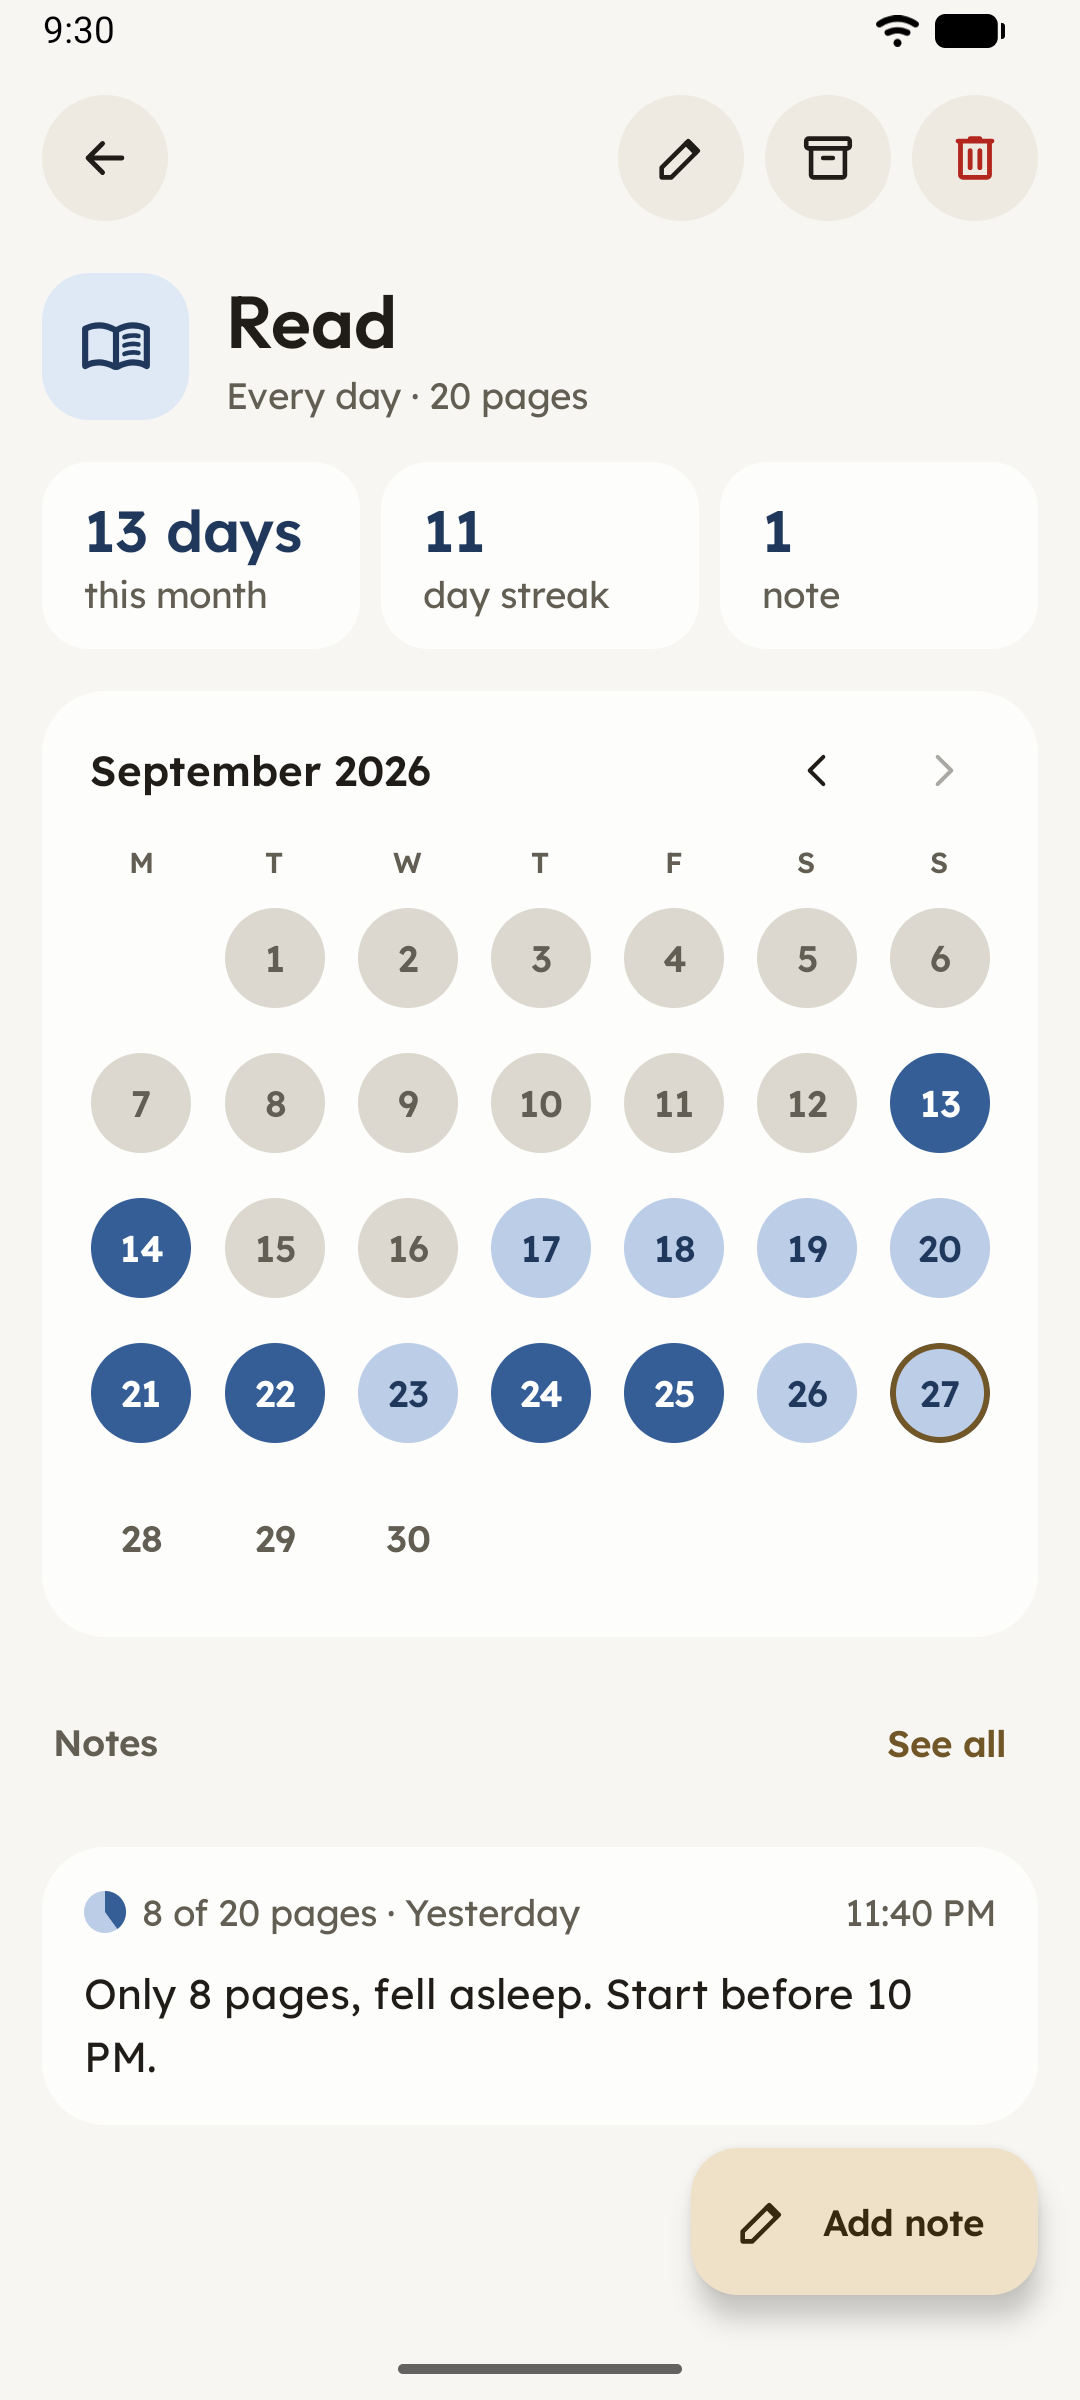
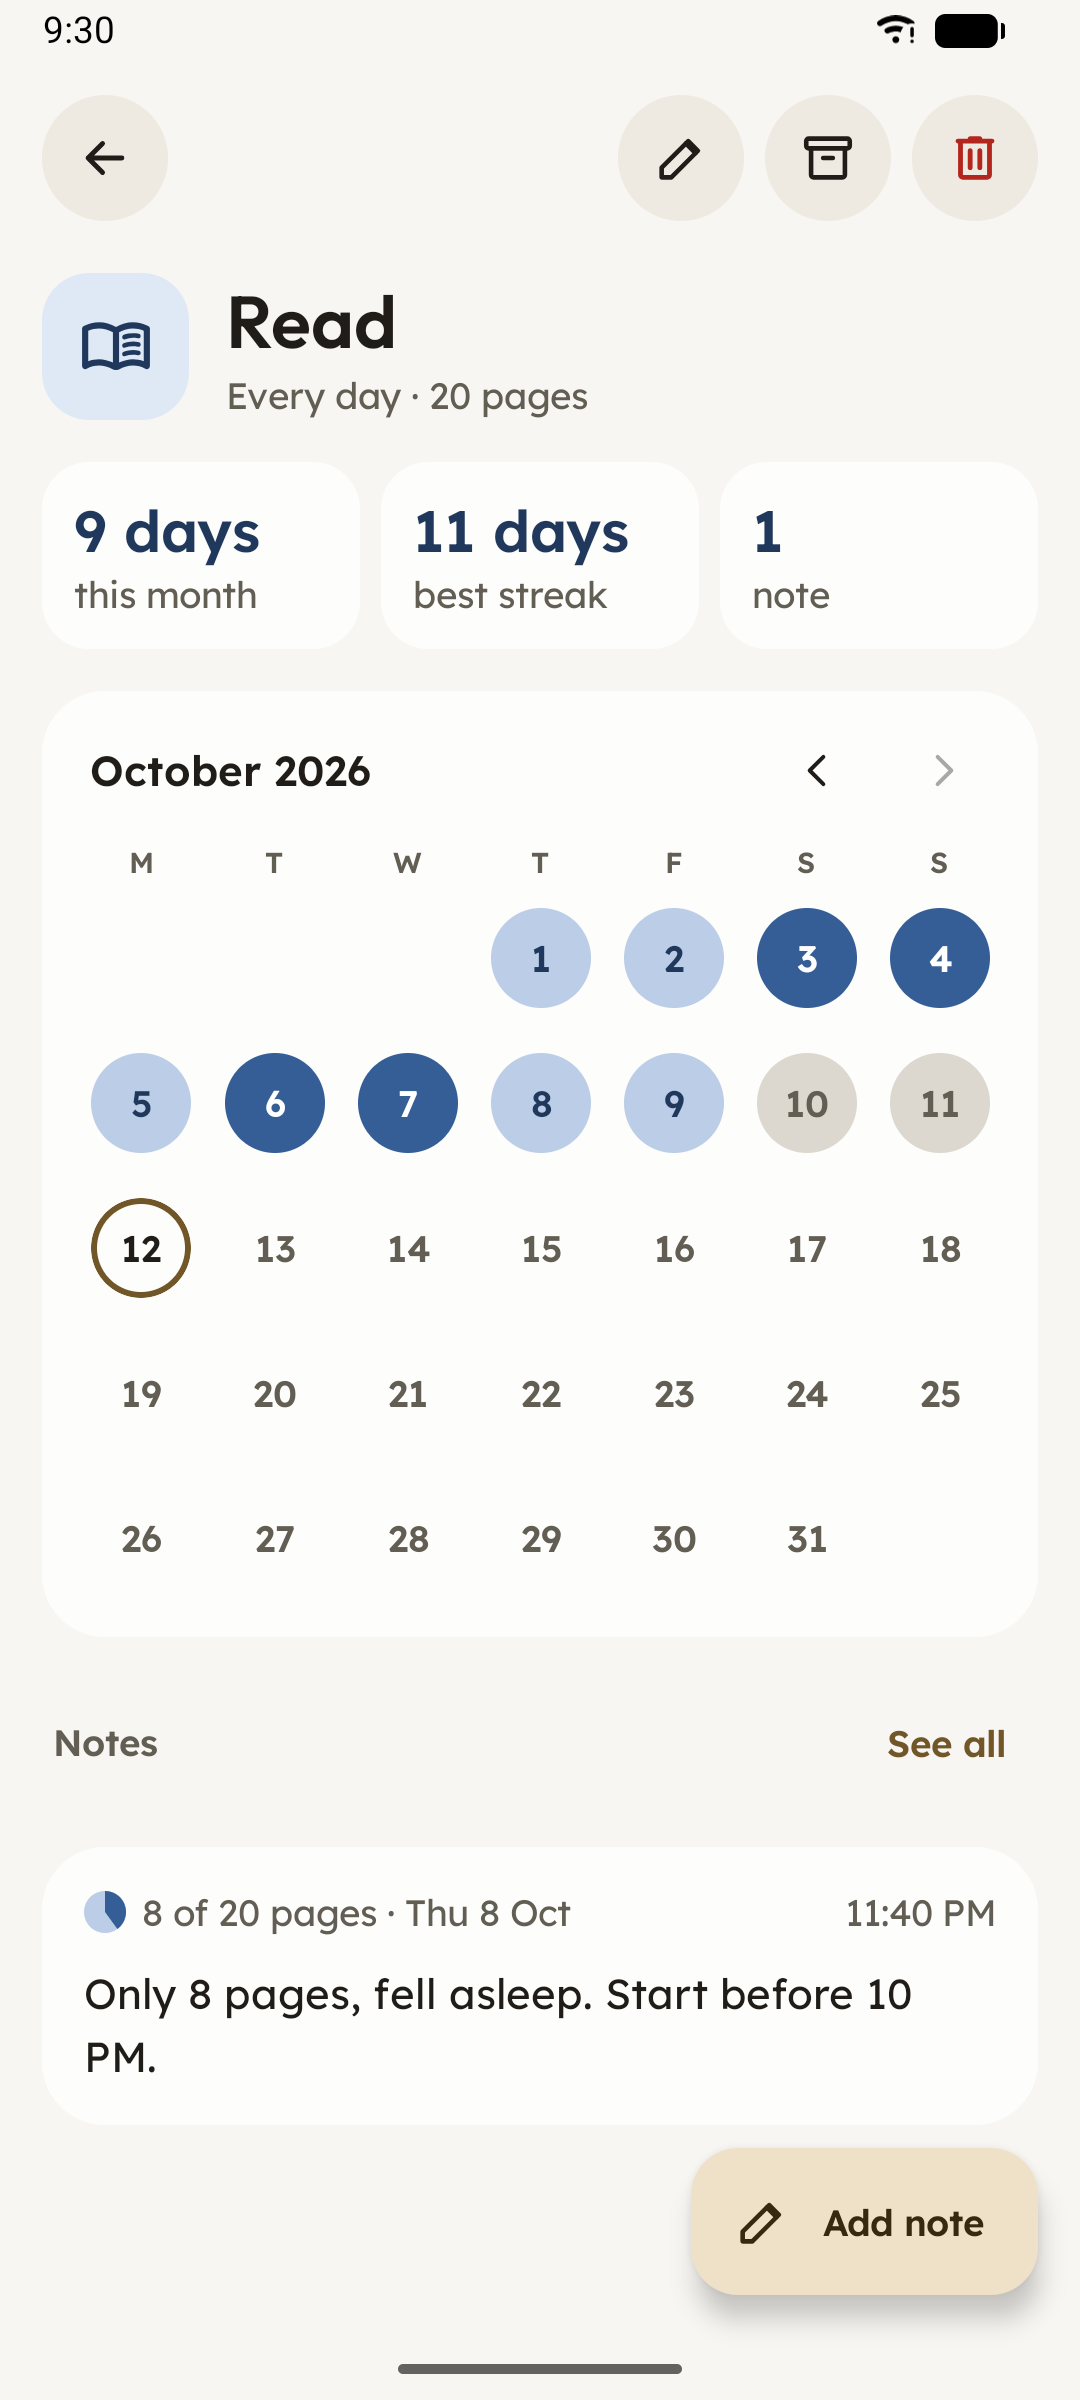
Habit detail shows the best streak again, on one line
- The middle stat is back to "11 days / best streak". Swapping it for the current streak was a misreading: the problem was the label wrapping onto two lines on narrow phones.
- The three stat cards use 12dp padding, share one height, and a value that doesn't fit shrinks instead of losing "days", so "best streak" stays on one line on a 360dp-wide screen.

diff --git a/app/src/main/java/app/sprout/habits/ui/detail/HabitDetailScreen.kt b/app/src/main/java/app/sprout/habits/ui/detail/HabitDetailScreen.kt
@@ -12,10 +12,12 @@ import androidx.compose.foundation.clickable
 import androidx.compose.foundation.layout.Arrangement
 import androidx.compose.foundation.layout.Box
 import androidx.compose.foundation.layout.Column
+import androidx.compose.foundation.layout.IntrinsicSize
 import androidx.compose.foundation.layout.PaddingValues
 import androidx.compose.foundation.layout.Row
 import androidx.compose.foundation.layout.Spacer
 import androidx.compose.foundation.layout.aspectRatio
+import androidx.compose.foundation.layout.fillMaxHeight
 import androidx.compose.foundation.layout.fillMaxSize
 import androidx.compose.foundation.layout.fillMaxWidth
 import androidx.compose.foundation.layout.height
@@ -27,6 +29,8 @@ import androidx.compose.foundation.lazy.LazyColumn
 import androidx.compose.foundation.lazy.items
 import androidx.compose.foundation.shape.CircleShape
 import androidx.compose.foundation.shape.RoundedCornerShape
+import androidx.compose.foundation.text.BasicText
+import androidx.compose.foundation.text.TextAutoSize
 import androidx.compose.material3.ExtendedFloatingActionButton
 import androidx.compose.material3.Icon
 import androidx.compose.material3.IconButton
@@ -49,6 +53,7 @@ import androidx.compose.material3.SnackbarHostState
 import app.sprout.habits.ui.today.DayLogHost
 import app.sprout.habits.ui.today.UndoSnackbarHost
 import androidx.compose.ui.unit.dp
+import androidx.compose.ui.unit.sp
 import androidx.lifecycle.compose.collectAsStateWithLifecycle
 import androidx.compose.runtime.getValue
 import androidx.compose.runtime.setValue
@@ -57,6 +62,7 @@ import app.sprout.habits.ui.components.HeaderIconButton
 import app.sprout.habits.ui.components.MarkKind
 import app.sprout.habits.ui.manage.DeleteHabitDialog
 import app.sprout.habits.ui.theme.HabitColors
+import app.sprout.habits.ui.theme.StatValueMinSize
 import app.sprout.habits.ui.theme.habitColors
 
 @Composable
@@ -111,9 +117,10 @@ fun HabitDetailScreen(
                 }
             }
             item(key = "stats") {
-                Row(horizontalArrangement = Arrangement.spacedBy(8.dp)) {
+                // One height for all three, so a label that needs two lines doesn't make its card stand out.
+                Row(Modifier.height(IntrinsicSize.Min), horizontalArrangement = Arrangement.spacedBy(8.dp)) {
                     StatTile(days(ui.monthDone), ui.monthDoneLabel, hc, Modifier.weight(1f))
-                    StatTile("${ui.currentStreak}", stringResource(R.string.day_streak), hc, Modifier.weight(1f))
+                    StatTile(days(ui.bestStreak), stringResource(R.string.best_streak), hc, Modifier.weight(1f))
                     StatTile("${ui.noteCount}", pluralStringResource(R.plurals.notes_count_label, ui.noteCount), hc, Modifier.weight(1f))
                 }
             }
@@ -161,12 +168,21 @@ private fun days(n: Int) = pluralStringResource(R.plurals.day_count, n, n)
 private fun StatTile(value: String, label: String, hc: HabitColors, modifier: Modifier) {
     Column(
         modifier
+            .fillMaxHeight()
             .background(MaterialTheme.colorScheme.surfaceContainerLowest, RoundedCornerShape(18.dp))
-            .padding(horizontal = 16.dp, vertical = 12.dp),
-        verticalArrangement = Arrangement.spacedBy(2.dp),
+            .padding(12.dp),
+        // The labels sit on the bottom edge, so they stay level when one value has shrunk.
+        verticalArrangement = Arrangement.SpaceBetween,
     ) {
-        Text(value, style = SproutType.titleNumber, color = hc.ink, maxLines = 1)
-        Text(label, style = SproutType.supporting, color = MaterialTheme.colorScheme.onSurfaceVariant, maxLines = 2)
+        // On a narrow phone "11 days" shrinks to fit instead of losing "days".
+        val style = SproutType.titleNumber
+        BasicText(
+            value,
+            maxLines = 1,
+            style = style.copy(color = hc.ink),
+            autoSize = TextAutoSize.StepBased(minFontSize = StatValueMinSize, maxFontSize = style.fontSize, stepSize = 0.5.sp),
+        )
+        Text(label, style = SproutType.supporting, color = MaterialTheme.colorScheme.onSurfaceVariant, maxLines = 2, modifier = Modifier.padding(top = 2.dp))
     }
 }
 

diff --git a/app/src/main/java/app/sprout/habits/ui/detail/HabitDetailViewModel.kt b/app/src/main/java/app/sprout/habits/ui/detail/HabitDetailViewModel.kt
@@ -12,6 +12,7 @@ import app.sprout.habits.data.HabitIcon
 import app.sprout.habits.data.HabitRepository
 import app.sprout.habits.data.Note
 import app.sprout.habits.data.SettingsRepository
+import app.sprout.habits.domain.bestStreak
 import app.sprout.habits.domain.currentStreak
 import app.sprout.habits.domain.dayCredit
 import app.sprout.habits.domain.history
@@ -55,6 +56,7 @@ data class HabitDetailUi(
     /** "this month", or "August" when looking at another month. */
     val monthDoneLabel: String,
     val currentStreak: Int,
+    val bestStreak: Int,
     val noteCount: Int,
     val monthLabel: String,
     val canGoForward: Boolean,
@@ -137,6 +139,7 @@ class HabitDetailViewModel(
             monthDone = (first..minOf(last, todayDay)).count { history.isScheduled(it) && history.isKept(it, todayDay) },
             monthDoneLabel = if (ym == YearMonth.now()) strings(R.string.this_month) else ym.month.getDisplayName(TextStyle.FULL, Locale.getDefault()),
             currentStreak = history.currentStreak(todayDay),
+            bestStreak = history.bestStreak(todayDay),
             noteCount = notes.size,
             monthLabel = ym.format(datePattern("MMMM yyyy")),
             canGoForward = ym < YearMonth.now(),

diff --git a/app/src/main/java/app/sprout/habits/ui/theme/Type.kt b/app/src/main/java/app/sprout/habits/ui/theme/Type.kt
@@ -139,6 +139,9 @@ object SproutType {
 /** The smallest a nav bar label may shrink to when a translation is too long for its tab. */
 val NavLabelMinSize = 9.sp
 
+/** The smallest a habit detail stat value ("11 days") may shrink to when its card is too narrow for it. */
+val StatValueMinSize = 16.sp
+
 /** Sizes for the Glance widgets, which can't use Compose text styles. Same scale as [SproutType]. */
 object WidgetType {
     val display = 40.sp

diff --git a/tools/verify/smoke.py b/tools/verify/smoke.py
@@ -246,7 +246,7 @@ def edit_past_day_from_detail_calendar():
     d.nav("Habits")
     d.tap("Week")
     d.tap("Wake up at 7")
-    assert d.exists("day streak"), "habit detail didn't open"
+    assert d.exists("best streak"), "habit detail didn't open"
     time.sleep(0.8)  # let the screen transition finish before tapping a day
     if day.month != datetime.date.today().month:
         d.tap("Previous month")
@@ -283,7 +283,7 @@ def habits_week_and_overall():
 @check
 def habit_detail_opens():
     d.tap("Read", timeout=5)
-    assert d.exists("day streak"), "detail stats missing"
+    assert d.exists("best streak"), "detail stats missing"
     assert d.exists("this month"), "detail's first stat isn't \"this month\""
     assert not any(n.label.endswith("%") for n in d.dump()), "detail still shows a percentage"
     assert d.exists("Edit habit"), "edit action missing"

diff --git a/.claude/skills/habits-views/SKILL.md b/.claude/skills/habits-views/SKILL.md
@@ -7,12 +7,13 @@ description: The Habits tab (Week marks, Overall heatmap) and Habit detail (stat
 
 **Code**
 - `ui/habits/HabitsViewModel.kt` + `HabitsScreen.kt`: Week view queries only the visible week; Overall queries 26 weeks. Best streak in Overall is within that window.
-- `ui/detail/HabitDetailViewModel.kt` + `HabitDetailScreen.kt`: all entries of one habit (current streak), month calendar, notes, round header buttons for edit, archive and delete.
+- `ui/detail/HabitDetailViewModel.kt` + `HabitDetailScreen.kt`: all entries of one habit (all-time best streak), month calendar, notes, round header buttons for edit, archive and delete.
 - `ui/components/DayMark.kt`: the shared mark shapes (check, pie, dash, dashed ring, dotted ring, dot) also used by widgets.
 - `domain/Stats.kt`: `HabitHistory`, `score`, `currentStreak`, `bestStreak`, `counts`.
 
 **Verify:** `python3 tools/verify/smoke.py habits detail`. Unit tests: `StatsTest`.
 
 **Pitfalls**
+- The three stat cards in habit detail must stay one line each on a 360dp-wide phone (`adb shell wm density 480` on the emulator): 12dp padding, the value shrinks to fit, the cards share one height.
 - The 7 day columns and heatmap month labels are in `CappedFontScale`; month labels drop the first (partial) month if the next starts within 3 columns.
 - Days before a habit was created don't count (`Habit.firstDay()`).

diff --git a/docs/FEATURES.md b/docs/FEATURES.md
@@ -22,7 +22,7 @@ Habits are created and edited on one screen: name, icon (7 suggestions, or any o
 
 Measure habits have a step: how far − / + and the slider move when logging (1 page, 500 steps, 0.25 h). Before 1.1 there was a separate Duration type; the database migration and backup import turn those habits into Measure habits in "min" (step 5) or "h" (step 0.25).
 
-The Habits tab has a Week view (seven day marks per habit, with arrows to earlier weeks; tap any past day to edit it in the same sheet as Today) and an Overall view (a 26-week heatmap per habit with its current and best streak). Tapping a habit opens its detail screen (round back, edit, archive and delete buttons in the header) with the days done this month, the current streak, note count, a month calendar (tap a past day to edit it) and its notes.
+The Habits tab has a Week view (seven day marks per habit, with arrows to earlier weeks; tap any past day to edit it in the same sheet as Today) and an Overall view (a 26-week heatmap per habit with its current and best streak). Tapping a habit opens its detail screen (round back, edit, archive and delete buttons in the header) with the days done this month, best streak, note count, a month calendar (tap a past day to edit it) and its notes.
 
 Code: `ui/edit/`, `ui/manage/`, `ui/habits/`, `ui/detail/`, statistics in `domain/Stats.kt`.
 

diff --git a/docs/SPACING.md b/docs/SPACING.md
@@ -45,4 +45,4 @@ So a section label always has **16dp above it and 8dp below it**. Where the list
 ## Exceptions (only these)
 - The month calendar cards (habit detail, date sheets) use 12dp side padding for the same reason.
 - Today's habit cards use 12dp horizontal and 8dp vertical padding with a 68dp minimum height, because the fill and the ring reach the card's edge.
-- The three stat cards in habit detail use 12dp vertical padding.
+- The three stat cards in habit detail use 12dp padding on every side, so "best streak" fits on one line on a 360dp-wide phone.
